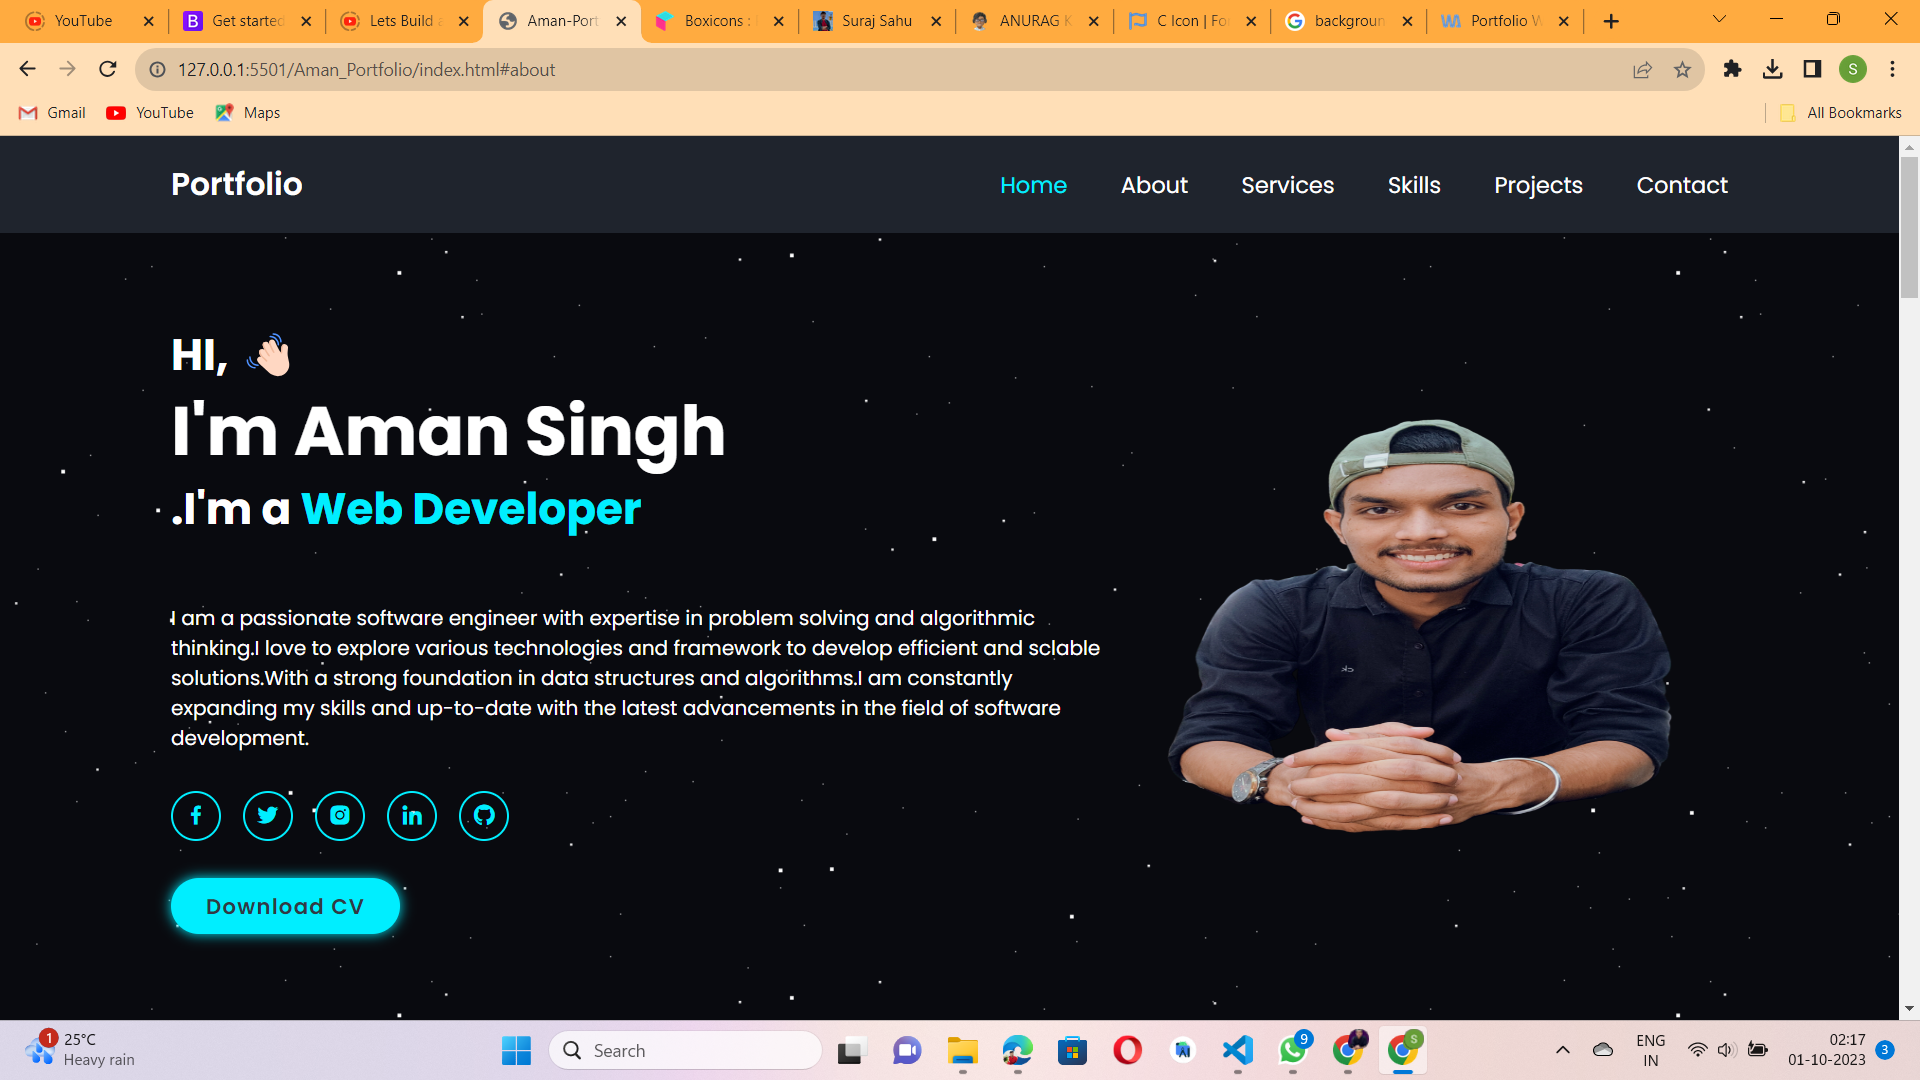
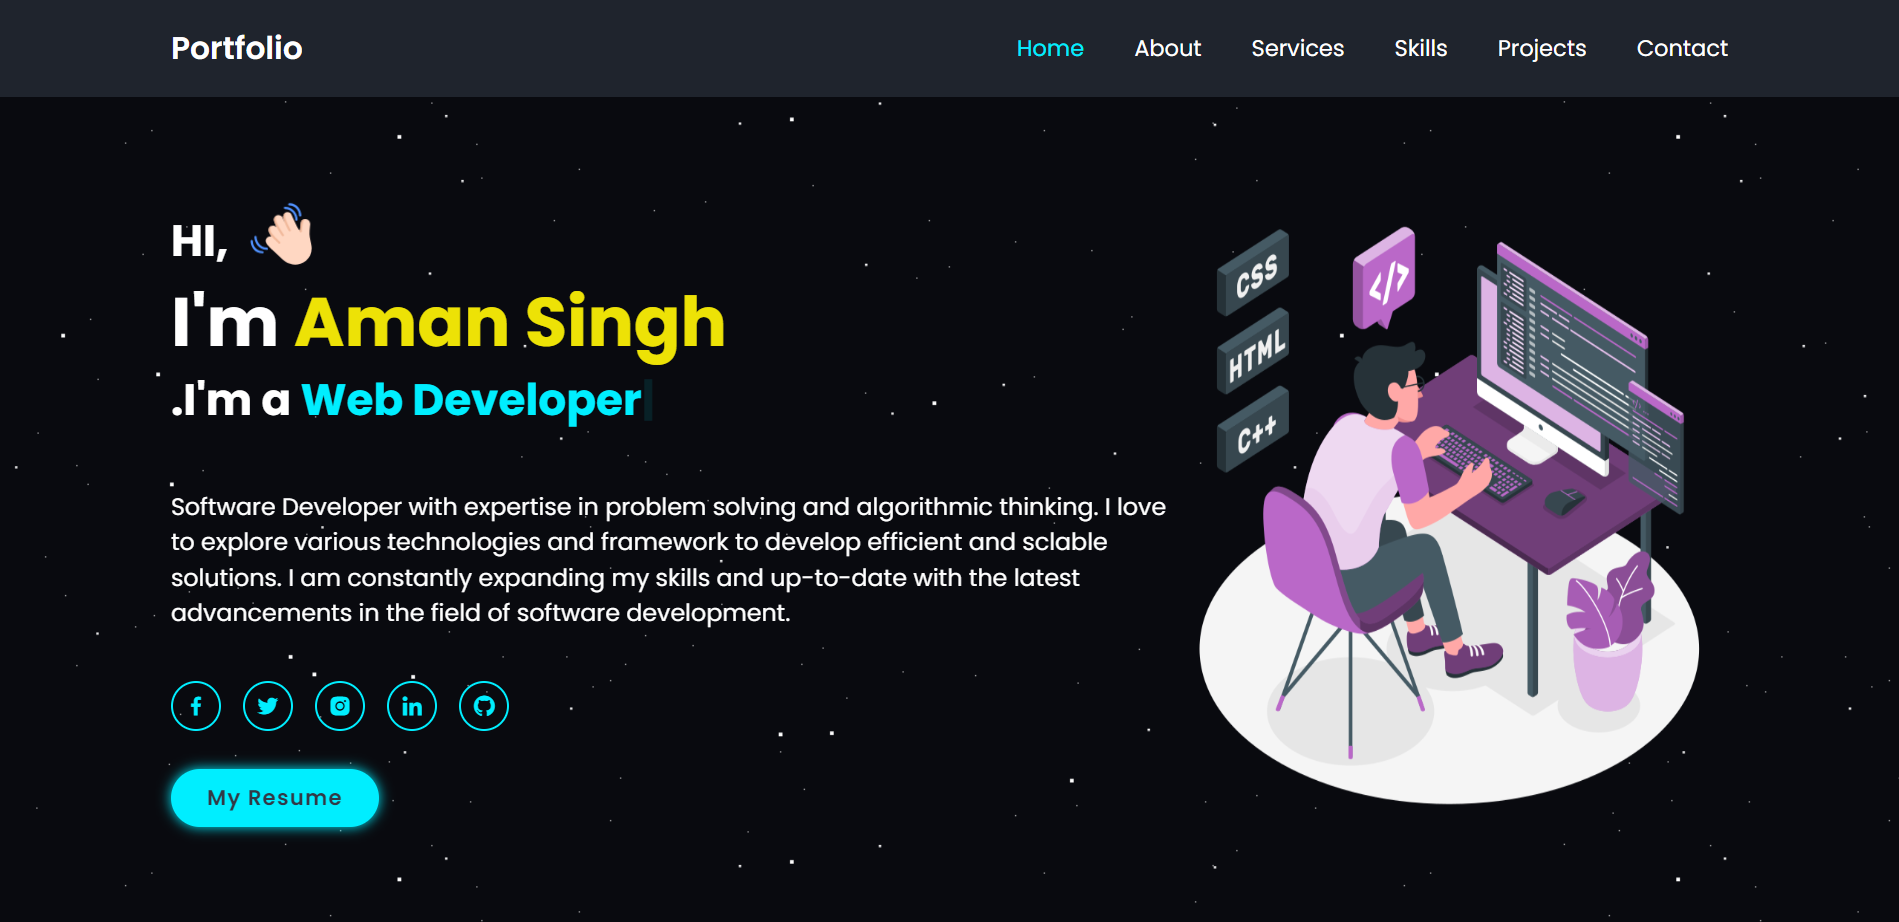
Updated projects , skills and images.

diff --git a/index.html b/index.html
@@ -63,7 +63,7 @@
         </div>
 
         <div class="home-img">
-            <img src="./images/My-image.png" alt="My-Image" width="350px", height="500px">
+            <img src="./images/My-image.png" alt="My-Image" width=400"0px", height="500px">
         </div>
 
     </section>
@@ -72,7 +72,7 @@
     <!-- About section design -->
     <section class="about" id="about">
         <div class="about-img">
-            <img src="./images/My-image.png" alt="My-Image" width="350px", height="500px">
+            <img src="./images/My-Image1.png" alt="My-Image" width="350px", height="500px">
 
         </div>
 
@@ -84,7 +84,7 @@
                 <h3>Open Source Contributer &nbsp;<span> || </span> &nbsp; FreeLancer </h3>
             </div>
             <div class="my-bio">
-                <p><span class="dot">. </span>Web Developer based in Jharkhand,India.
+                <p><span class="dot">. </span>Full-Stack Developer based in Jharkhand,India.
                 </p>
 
                 </br>
@@ -95,8 +95,8 @@
 
                 </br>
 
-                <p><span class="dot">. </span>Proficient in a wide range of programming languages,
-                    including JAVA, JavaScript, MySql, C.
+                <p><span class="dot">. </span>Proficient in a wide range of programming languages
+                    including JAVA, JavaScript, C, React.
                 </p>
 
                 </br>
@@ -290,6 +290,10 @@
                         <a href="https://en.wikipedia.org/wiki/C_(programming_language)"><i class="fa-solid fa-c"></i></a>
                         <a href="https://en.wikipedia.org/wiki/HTML"><i class="fa-brands fa-html5"></i></a>
                         <a href="https://en.wikipedia.org/wiki/SQL"><i class="fa-solid fa-database"></i></a>
+                        <a href="https://react.dev/"><i class='bx bxl-react'></i></a>
+                        <a href="https://expressjs.com/"><svg xmlns="http://www.w3.org/2000/svg" x="0px" y="0px" width="100" height="100" viewBox="0,0,256,256">
+                            <g transform=""><g fill="#05a3fe" fill-rule="nonzero" stroke="none" stroke-width="1" stroke-linecap="butt" stroke-linejoin="miter" stroke-miterlimit="10" stroke-dasharray="" stroke-dashoffset="0" font-family="none" font-weight="none" font-size="none" text-anchor="none" style="mix-blend-mode: normal"><g transform="translate(-1.34667,-8.53627) scale(5.33333,5.33333)"><path d="M23.697,37.56h1.18c0.84,0 1.631,-0.392 2.139,-1.061l7.485,-9.847l7.485,9.847c0.508,0.668 1.299,1.061 2.139,1.061h1.18l-9.549,-12.56l9.121,-12h-1.18c-0.84,0 -1.631,0.392 -2.139,1.061l-7.058,9.286l-7.059,-9.287c-0.508,-0.668 -1.299,-1.06 -2.139,-1.06h-1.18l9.121,12z"></path><path d="M24,26v-3c0,-6.675 -5.945,-11.961 -12.829,-10.852c-5.359,0.863 -9.171,5.709 -9.171,11.136v0.716v2v0.142c0,6.553 4.777,11.786 10.868,11.858c5.092,0.06 9.389,-3.344 10.707,-7.999h-1.028c-0.62,0 -1.182,0.355 -1.451,0.913c-1.739,3.595 -5.789,5.862 -10.228,4.842c-4.092,-0.941 -6.868,-4.775 -6.868,-8.973v-0.783zM4,23.71c0,-4.708 2.804,-8.557 6.924,-9.478c5.874,-1.312 11.076,3.12 11.076,8.768v1h-18z"></path></g></g></g>
+                            </svg></a>
                     </div>
                 </div>
 
@@ -298,8 +302,9 @@
                     <div class="language">
                         <a href="https://www.mysql.com/"><svg xmlns="http://www.w3.org/2000/svg" x="0px" y="0px" width="100" height="100" viewBox="0 0 50 50">
                             <path d="M 31.167969 8 C 30.699219 7.988281 30.289063 8.167969 30.078125 8.6875 C 29.71875 9.558594 30.613281 10.410156 30.933594 10.855469 C 31.15625 11.164063 31.445313 11.511719 31.605469 11.859375 C 31.710938 12.089844 31.726563 12.320313 31.816406 12.5625 C 32.039063 13.160156 32.394531 13.839844 32.679688 14.394531 C 32.824219 14.675781 32.984375 14.96875 33.167969 15.21875 C 33.28125 15.371094 33.472656 15.441406 33.503906 15.675781 C 33.316406 15.941406 33.304688 16.351563 33.199219 16.6875 C 32.722656 18.191406 32.902344 20.0625 33.59375 21.171875 C 33.808594 21.515625 34.3125 22.246094 35 21.96875 C 35.601563 21.722656 35.46875 20.960938 35.640625 20.285156 C 35.679688 20.136719 35.65625 20.023438 35.734375 19.921875 L 35.734375 19.953125 C 35.914063 20.320313 36.097656 20.6875 36.28125 21.050781 C 36.691406 21.707031 37.414063 22.390625 38.023438 22.855469 C 38.339844 23.09375 38.589844 23.507813 39 23.648438 L 39 23.617188 L 38.96875 23.617188 C 38.890625 23.492188 38.765625 23.441406 38.664063 23.34375 C 38.425781 23.109375 38.160156 22.816406 37.964844 22.546875 C 37.40625 21.792969 36.914063 20.964844 36.46875 20.105469 C 36.253906 19.695313 36.066406 19.242188 35.886719 18.824219 C 35.816406 18.660156 35.816406 18.417969 35.671875 18.332031 C 35.472656 18.640625 35.183594 18.886719 35.03125 19.25 C 34.789063 19.828125 34.753906 20.535156 34.664063 21.265625 C 34.609375 21.285156 34.632813 21.269531 34.605469 21.296875 C 34.179688 21.191406 34.027344 20.753906 33.871094 20.378906 C 33.472656 19.429688 33.394531 17.898438 33.75 16.808594 C 33.839844 16.523438 34.25 15.632813 34.085938 15.371094 C 34.007813 15.109375 33.742188 14.960938 33.597656 14.761719 C 33.414063 14.515625 33.234375 14.191406 33.109375 13.90625 C 32.78125 13.164063 32.472656 12.304688 32.125 11.554688 C 31.960938 11.195313 31.683594 10.835938 31.453125 10.515625 C 31.199219 10.164063 30.917969 9.90625 30.71875 9.476563 C 30.652344 9.328125 30.554688 9.085938 30.660156 8.929688 C 30.691406 8.824219 30.738281 8.78125 30.84375 8.746094 C 31.019531 8.609375 31.511719 8.789063 31.699219 8.867188 C 32.1875 9.070313 32.597656 9.265625 33.011719 9.539063 C 33.210938 9.671875 33.410156 9.925781 33.652344 10 L 33.925781 10 C 34.359375 10.097656 34.839844 10.027344 35.238281 10.152344 C 35.949219 10.367188 36.585938 10.703125 37.160156 11.066406 C 38.921875 12.175781 40.363281 13.757813 41.34375 15.644531 C 41.503906 15.949219 41.574219 16.242188 41.714844 16.5625 C 41.992188 17.210938 42.347656 17.882813 42.628906 18.515625 C 42.90625 19.152344 43.179688 19.789063 43.574219 20.316406 C 43.78125 20.59375 44.585938 20.746094 44.949219 20.898438 C 45.203125 21.007813 45.625 21.121094 45.863281 21.265625 C 46.328125 21.542969 46.773438 21.875 47.207031 22.183594 C 47.425781 22.335938 48.089844 22.667969 48.125 22.945313 C 47.050781 22.917969 46.230469 23.015625 45.53125 23.3125 C 45.332031 23.398438 45.011719 23.398438 44.980469 23.648438 C 45.085938 23.761719 45.105469 23.933594 45.191406 24.074219 C 45.359375 24.34375 45.640625 24.707031 45.894531 24.898438 C 46.171875 25.105469 46.453125 25.328125 46.75 25.511719 C 47.273438 25.828125 47.859375 26.011719 48.367188 26.332031 C 48.664063 26.523438 48.964844 26.761719 49.253906 26.972656 C 49.398438 27.082031 49.492188 27.246094 49.679688 27.3125 L 49.679688 27.28125 C 49.582031 27.15625 49.558594 26.984375 49.46875 26.855469 L 49.066406 26.453125 C 48.679688 25.941406 48.1875 25.488281 47.664063 25.113281 C 47.246094 24.8125 46.3125 24.40625 46.140625 23.921875 L 46.109375 23.890625 C 46.402344 23.859375 46.75 23.75 47.023438 23.675781 C 47.484375 23.554688 47.890625 23.585938 48.363281 23.464844 C 48.578125 23.402344 48.792969 23.339844 49.007813 23.28125 L 49.007813 23.15625 C 48.769531 22.914063 48.597656 22.585938 48.335938 22.363281 C 47.652344 21.78125 46.90625 21.199219 46.136719 20.714844 C 45.710938 20.445313 45.183594 20.269531 44.734375 20.042969 C 44.582031 19.964844 44.316406 19.925781 44.214844 19.796875 C 43.976563 19.496094 43.847656 19.113281 43.664063 18.761719 C 43.28125 18.023438 42.90625 17.21875 42.566406 16.441406 C 42.335938 15.914063 42.183594 15.390625 41.894531 14.914063 C 40.507813 12.636719 39.015625 11.257813 36.703125 9.90625 C 36.210938 9.617188 35.621094 9.507813 34.996094 9.359375 C 34.65625 9.335938 34.324219 9.316406 33.984375 9.296875 C 33.78125 9.210938 33.566406 8.960938 33.375 8.835938 C 32.894531 8.535156 31.949219 8.011719 31.167969 8 Z M 34.476563 11.3125 C 34.253906 11.308594 34.09375 11.339844 33.925781 11.375 L 33.925781 11.40625 L 33.957031 11.40625 C 34.0625 11.625 34.253906 11.765625 34.386719 11.953125 C 34.488281 12.167969 34.585938 12.382813 34.6875 12.597656 L 34.71875 12.566406 C 34.90625 12.433594 34.996094 12.21875 34.996094 11.894531 C 34.917969 11.816406 34.90625 11.714844 34.84375 11.621094 C 34.753906 11.492188 34.585938 11.421875 34.476563 11.3125 Z M 1.867188 23.996094 C 1.566406 24.007813 1.238281 24.066406 0.882813 24.179688 C 0.289063 24.359375 -0.00390625 24.714844 -0.00390625 25.4375 L -0.00390625 33 L 2 33 L 2 25.621094 L 4.777344 31.929688 C 5.121094 32.714844 5.589844 32.996094 6.507813 32.996094 C 7.429688 32.996094 7.878906 32.714844 8.222656 31.929688 L 11 25.78125 L 11 33 L 13 33 L 13 25.4375 C 13 24.714844 12.710938 24.359375 12.113281 24.179688 C 10.691406 23.730469 9.734375 24.117188 9.304688 25.089844 L 6.453125 31.503906 L 3.695313 25.089844 C 3.382813 24.359375 2.757813 23.960938 1.867188 23.996094 Z M 26.246094 24 C 25.457031 24 23 24.09375 23 26 L 23 27.234375 C 23 28.109375 23.769531 28.824219 25.4375 29 C 25.625 29.011719 25.8125 29.027344 26 29.027344 C 26 29.027344 27.945313 28.988281 28 29 C 29.125 29 29 29.875 29 30 L 29 31 C 29 31.136719 28.96875 32 27.988281 32 L 23 32 L 23 33 L 28.007813 33 C 28.664063 33 29.300781 32.863281 29.808594 32.625 C 30.652344 32.238281 31 31.714844 31 31.027344 L 31 29.597656 C 31 28.0625 29.09375 28 28 28 L 26 28 C 25.214844 28 25.09375 27.523438 25 27 L 25 26 C 25.09375 25.601563 25.269531 25.0625 25.964844 25 L 31 25 L 31 24 Z M 33.980469 24 C 32.503906 24.203125 31.984375 24.9375 31.984375 26 L 31.984375 31 C 31.984375 31.972656 32.527344 32.558594 33.644531 32.863281 C 34.019531 32.96875 34.359375 33.011719 34.679688 33.011719 L 36.90625 33 L 38.214844 33 L 39.328125 34 L 41.578125 34 L 40.03125 32.605469 C 40.757813 32.304688 40.984375 31.84375 40.984375 30.980469 L 40.984375 26 C 40.984375 24.9375 40.292969 24.203125 38.816406 24 Z M 42 24 L 42 30.957031 C 42 32.164063 42.683594 32.84375 44.492188 32.980469 C 44.660156 32.988281 44.832031 33 45 33 L 50 33 L 50 32 L 45.378906 32 C 44.347656 32 44 31.566406 44 30.949219 L 44 24 Z M 35.171875 25 L 37.746094 25 C 38.425781 25 38.882813 25.546875 38.984375 26 C 38.984375 26 39 30.65625 39 31 C 39 31.34375 38.808594 31.5 38.808594 31.5 L 38.265625 31 L 36 31 L 37.113281 32 L 35.171875 32 C 34.476563 32 34.085938 31.484375 33.984375 31 L 33.984375 26.101563 C 33.984375 25.570313 34.390625 25 35.171875 25 Z M 14 27 C 14.039063 27.039063 14 31.261719 14 31.34375 C 14.015625 32.21875 15.125 32.984375 16.863281 33 L 20 33 L 20 33.066406 C 20 33.253906 20.136719 33.878906 19 34 C 18.988281 34 14.011719 34 14 34 L 14 35 L 19.214844 35 C 20.097656 34.972656 22.011719 34.773438 22 33.242188 C 22 33.214844 22.007813 27 22 27 L 20 27 L 20 32 C 19.96875 32 17.523438 32.007813 17.03125 32 C 16.066406 31.984375 15.984375 31.433594 16 31.222656 L 16 27 Z"></path>
-                            </svg></a>
-                        
+                            </svg>
+                        </a>
+                        <a href="https://www.mongodb.com/"><i class='bx bxl-mongodb'></i></a>
                     </div>
                 </div>
 
@@ -313,7 +318,7 @@
                         <a href="https://github.com/"><i class='bx bxl-github'></i></a>
                         <a href="https://developer.android.com/studio"><i class='bx bxl-android'></i></a>
                         <a class="git" href="https://git-scm.com/"><i class='bx bxl-git'></i></a>
-                        
+                        <a class="git" href="https://wordpress.org/"><i class='bx bxl-wordpress' ></i></a>
                     </div>
                 </div>
 
@@ -348,21 +353,25 @@
             </div>
             
             <div class="projects-box" id="projects-box2">
-                <img src="./images/projects/Amzon_Clone-project.png" alt="" width="300px", height="300px">
+                <img src="./images/projects/NewsTime-project.png" alt="" width="300px", height="300px">
                 <div class="projects-layer">
-                    <h4>Amazon Clone</h4>
-                    <p class="p1">A amazon website clone</p>
+                    <h4>NewsTime - A React App</h4>
+                    </br>
                     <h6>Key Features</h6>
-                    <p class="p2"><span class="dot">. </span>A responsive frontend web page.</p>
+                    <p class="p2"><span class="dot">. </span>Displays news articles: Fetches news articles from APIs based on user preferences
+                        and presents them in an organized manner.</p>
                     </br>
-                    <p class="p2"><span class="dot">. </span>Created all the components using HTML, 
-                    CSS, JavaScript.</p>
+                    <p class="p2"><span class="dot">. </span>API integration: Connects to external News APIs like NewsAPI or 
+                        Google News API to access diverse news content.</p>
                     </br>
-                    <a href="https://github.com/02AmanSingh/Amazon_Clone"><i class="bx bx-link-external"></i></a>
+                    <p class="p2"><span class="dot">. </span>Dynamic and informative: Delivers timely 
+                        news updates and diverse perspectives.</p>
+                    </br>
+                    <a href="https://github.com/02AmanSingh/NewsTime-ReactApp"><i class="bx bx-link-external"></i></a>
                 </div>
             </div>
 
-            <div class="projects-box" id="projects-box3">
+            <!-- <div class="projects-box" id="projects-box3">
                 <img src="./images/projects/calculator-project.jpg" alt="" width="300px", height="300px">
                 <div class="projects-layer">
                     <h4>Calculator</h4>
@@ -374,7 +383,7 @@
                     </br>
                     <a href="#"><i class="bx bx-link-external"></i></a>
                 </div>
-            </div>
+            </div> -->
 
 
             <!-- <div class="projects-box">

diff --git a/index.css b/index.css
@@ -95,7 +95,7 @@ section {
 }
 
 .home-img img {
-    width: 25vw;
+    width: 29vw;
     animation: floatImg 4s ease-in-out infinite;
 }
 
